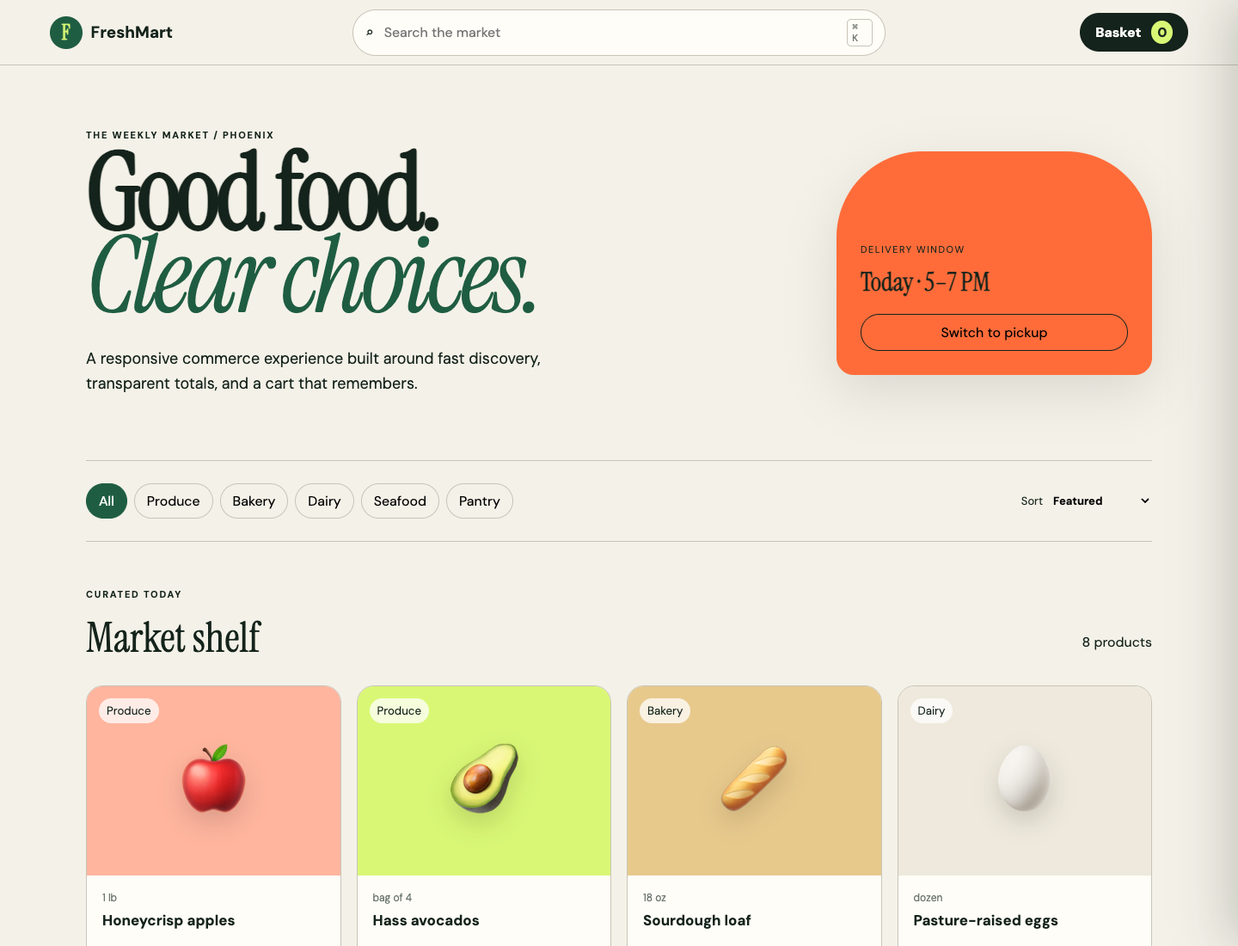
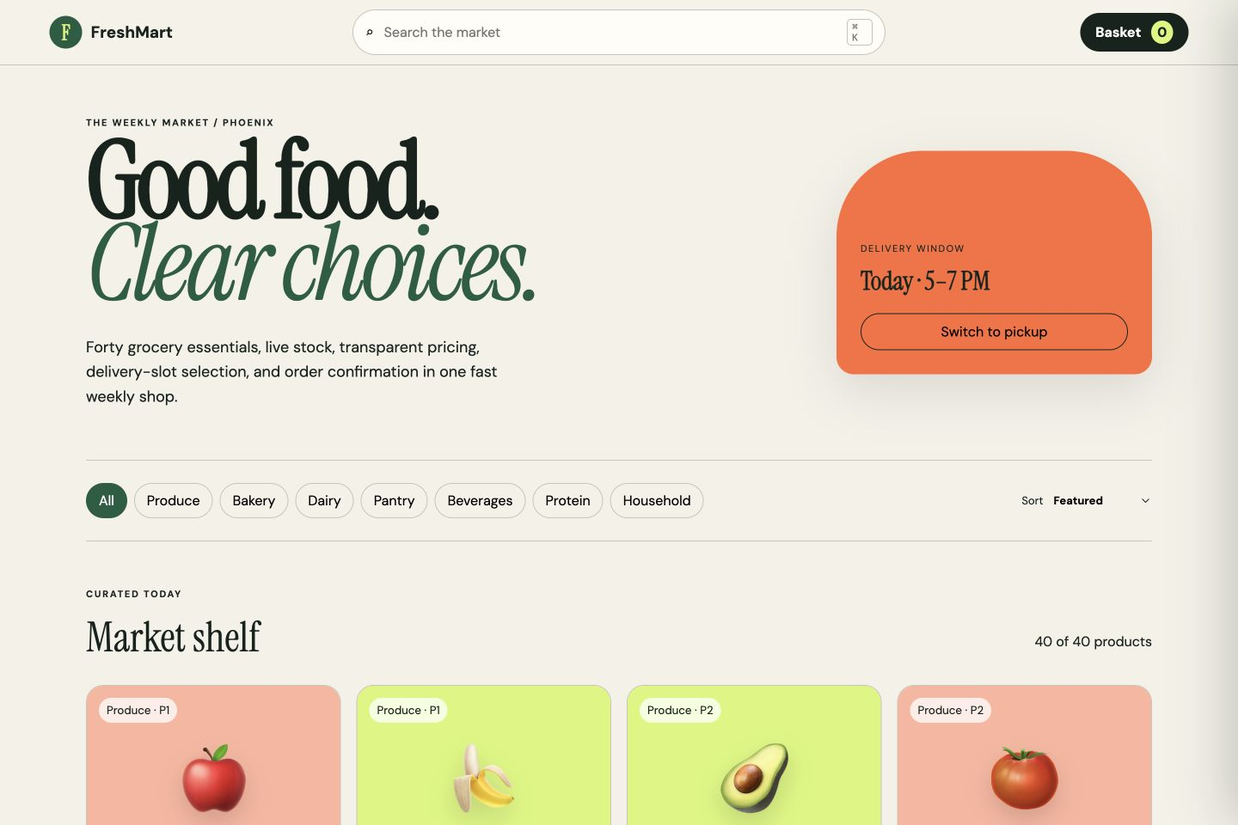
Implement full-stack grocery checkout

diff --git a/assets/app.js b/assets/app.js
@@ -1,80 +1,20 @@
-const PRODUCTS = [
-  { id: "apple", name: "Honeycrisp apples", category: "Produce", price: 2.49, unit: "1 lb", icon: "🍎", tone: "coral", rank: 1 },
-  { id: "avocado", name: "Hass avocados", category: "Produce", price: 4.29, unit: "bag of 4", icon: "🥑", tone: "lime", rank: 2 },
-  { id: "bread", name: "Sourdough loaf", category: "Bakery", price: 3.89, unit: "18 oz", icon: "🥖", tone: "sand", rank: 3 },
-  { id: "eggs", name: "Pasture-raised eggs", category: "Dairy", price: 5.79, unit: "dozen", icon: "🥚", tone: "cream", rank: 4 },
-  { id: "milk", name: "Whole milk", category: "Dairy", price: 3.69, unit: "1 gallon", icon: "🥛", tone: "sky", rank: 5 },
-  { id: "salmon", name: "Atlantic salmon", category: "Seafood", price: 8.99, unit: "1 lb", icon: "🐟", tone: "blue", rank: 6 },
-  { id: "rice", name: "Jasmine rice", category: "Pantry", price: 4.49, unit: "2 lb", icon: "🍚", tone: "cream", rank: 7 },
-  { id: "coffee", name: "Desert roast coffee", category: "Pantry", price: 12.50, unit: "12 oz", icon: "☕", tone: "coffee", rank: 8 }
-];
-const CATEGORIES = ["All", ...new Set(PRODUCTS.map(product => product.category))];
-const core = window.FreshMartCore;
-const saved = JSON.parse(localStorage.getItem("freshmart-cart") || "{}");
-const state = { query: "", category: "All", sort: "featured", cart: saved, discount: false, delivery: true };
-const $ = selector => document.querySelector(selector);
-
-function persist() { localStorage.setItem("freshmart-cart", JSON.stringify(state.cart)); }
-function notify(message) {
-  const toast = $("#toast"); toast.textContent = message; toast.classList.add("visible");
-  clearTimeout(notify.timer); notify.timer = setTimeout(() => toast.classList.remove("visible"), 1600);
-}
-function visibleProducts() {
-  return core.sortProducts(core.filterProducts(PRODUCTS, state.query, state.category), state.sort);
-}
-function renderCategories() {
-  $("#categories").innerHTML = CATEGORIES.map(category =>
-    `<button class="category ${category === state.category ? "active" : ""}" data-category="${category}">${category}</button>`
-  ).join("");
-}
-function renderProducts() {
-  const products = visibleProducts();
-  $("#resultCount").textContent = `${products.length} products`;
-  $("#catalog").innerHTML = products.length ? products.map(product => `
-    <article class="product-card">
-      <div class="product-art ${product.tone}"><span>${product.icon}</span><small>${product.category}</small></div>
-      <div class="product-info">
-        <p class="unit">${product.unit}</p><h3>${product.name}</h3>
-        <div><strong>${core.money(product.price)}</strong><button data-add="${product.id}">Add +</button></div>
-      </div>
-    </article>`).join("") : `<p class="empty-state">No market items match that search.</p>`;
-}
-function lines() {
-  return Object.entries(state.cart).map(([id, quantity]) => ({ ...PRODUCTS.find(p => p.id === id), quantity })).filter(line => line.id);
-}
-function renderCart() {
-  const items = lines();
-  $("#cartCount").textContent = items.reduce((sum, item) => sum + item.quantity, 0);
-  $("#cartItems").innerHTML = items.length ? items.map(item => `
-    <article class="cart-line"><span class="cart-icon">${item.icon}</span><div><strong>${item.name}</strong><small>${core.money(item.price)} · ${item.unit}</small></div>
-      <div class="stepper"><button aria-label="Remove one ${item.name}" data-step="-1" data-id="${item.id}">−</button><span>${item.quantity}</span><button aria-label="Add one ${item.name}" data-step="1" data-id="${item.id}">+</button></div>
-    </article>`).join("") : `<div class="empty-basket"><span>◎</span><h3>Your basket is clear</h3><p>Add something fresh from the market shelf.</p></div>`;
-  const totals = core.calculateTotals(items, state.discount);
-  $("#subtotal").textContent = core.money(totals.subtotal); $("#tax").textContent = core.money(totals.tax);
-  $("#discount").textContent = `−${core.money(totals.discount)}`; $("#total").textContent = core.money(totals.total);
-  $("#discountRow").hidden = !state.discount;
-}
-function openCart() {
-  $("#cartDrawer").classList.add("open"); $("#cartDrawer").setAttribute("aria-hidden", "false");
-  $("#openCart").setAttribute("aria-expanded", "true"); $("#scrim").hidden = false; $("#closeCart").focus();
-}
-function closeCart() {
-  $("#cartDrawer").classList.remove("open"); $("#cartDrawer").setAttribute("aria-hidden", "true");
-  $("#openCart").setAttribute("aria-expanded", "false"); $("#scrim").hidden = true; $("#openCart").focus();
-}
-document.addEventListener("click", event => {
-  const category = event.target.closest("[data-category]");
-  if (category) { state.category = category.dataset.category; renderCategories(); renderProducts(); }
-  const add = event.target.closest("[data-add]");
-  if (add) { state.cart[add.dataset.add] = (state.cart[add.dataset.add] || 0) + 1; persist(); renderCart(); notify("Added to your basket"); }
-  const step = event.target.closest("[data-step]");
-  if (step) { const next = (state.cart[step.dataset.id] || 0) + Number(step.dataset.step); if (next <= 0) delete state.cart[step.dataset.id]; else state.cart[step.dataset.id] = next; persist(); renderCart(); }
-});
-$("#search").addEventListener("input", event => { state.query = event.target.value; renderProducts(); });
-$("#sort").addEventListener("change", event => { state.sort = event.target.value; renderProducts(); });
-$("#openCart").addEventListener("click", openCart); $("#closeCart").addEventListener("click", closeCart); $("#scrim").addEventListener("click", closeCart);
-$("#toggleDelivery").addEventListener("click", event => { state.delivery = !state.delivery; event.target.previousElementSibling.textContent = state.delivery ? "Today · 5–7 PM" : "Pickup · after 4 PM"; event.target.textContent = state.delivery ? "Switch to pickup" : "Switch to delivery"; });
-$("#applyPromo").addEventListener("click", () => { const code = $("#promo").value.trim().toUpperCase(); state.discount = code === "FRESH10"; renderCart(); notify(state.discount ? "FRESH10 applied" : "Try FRESH10 for this demo"); });
-$("#checkout").addEventListener("click", () => notify(lines().length ? "Checkout is a demonstration" : "Your basket is empty"));
-window.addEventListener("keydown", event => { if (event.key === "Escape" && $("#cartDrawer").classList.contains("open")) closeCart(); if ((event.metaKey || event.ctrlKey) && event.key.toLowerCase() === "k") { event.preventDefault(); $("#search").focus(); } });
-renderCategories(); renderProducts(); renderCart();
+const core=window.FreshMartCore,$=selector=>document.querySelector(selector);let PRODUCTS=[];let slots=[];
+const saved=JSON.parse(localStorage.getItem("freshmart-cart")||"{}");const state={query:"",category:"All",sort:"featured",cart:saved,discount:false,delivery:true,api:true,slotId:"today-17"};
+const esc=value=>String(value).replace(/[&<>'"]/g,c=>({"&":"&amp;","<":"&lt;",">":"&gt;","'":"&#39;",'"':"&quot;"}[c]));
+async function api(path,options={}){const response=await fetch(path,{headers:{"Content-Type":"application/json"},...options});if(!response.ok){const payload=await response.json().catch(()=>({error:"Request failed"}));throw new Error(payload.error||"Request failed");}return response.json();}
+async function load(){try{PRODUCTS=await api("/api/products");slots=await api("/api/delivery-slots");}catch{state.api=false;PRODUCTS=await fetch("data/products.json").then(r=>r.json());slots=[{id:"today-17",label:"Today · 5–7 PM",fee:5.99,capacity:7},{id:"tomorrow-09",label:"Tomorrow · 9–11 AM",fee:0,capacity:12},{id:"pickup",label:"Pickup · ready in 90 minutes",fee:0,capacity:20}];}}
+const CATEGORIES=()=>["All",...new Set(PRODUCTS.map(product=>product.category))];function persist(){localStorage.setItem("freshmart-cart",JSON.stringify(state.cart));}
+function notify(message){const toast=$("#toast");toast.textContent=message;toast.classList.add("visible");clearTimeout(notify.timer);notify.timer=setTimeout(()=>toast.classList.remove("visible"),1800);}
+function visibleProducts(){return core.sortProducts(core.filterProducts(PRODUCTS,state.query,state.category),state.sort);}
+function renderCategories(){$("#categories").innerHTML=CATEGORIES().map(category=>`<button class="category ${category===state.category?"active":""}" data-category="${esc(category)}">${esc(category)}</button>`).join("");}
+function renderProducts(){const products=visibleProducts();$("#resultCount").textContent=`${products.length} of ${PRODUCTS.length} products`;$("#catalog").innerHTML=products.length?products.map(product=>`<article class="product-card"><div class="product-art ${esc(product.tone)}"><span>${product.icon}</span><small>${esc(product.category)} · ${esc(product.aisle)}</small></div><div class="product-info"><p class="unit">${esc(product.unit)} · ${esc(product.origin)}</p><h3>${esc(product.name)}</h3><div><strong>${core.money(product.price)}</strong><button data-add="${esc(product.id)}" ${product.stock<1?"disabled":""}>${product.stock<1?"Sold out":"Add +"}</button></div><small class="inventory">${product.stock<18?`Only ${product.stock} left`:`${product.stock} in stock`}</small></div></article>`).join(""):`<p class="empty-state">No market items match that search.</p>`;}
+function lines(){return Object.entries(state.cart).map(([id,quantity])=>({...PRODUCTS.find(p=>p.id===id),quantity})).filter(line=>line.id);}
+function renderCart(){const items=lines();$("#cartCount").textContent=items.reduce((sum,item)=>sum+item.quantity,0);$("#cartItems").innerHTML=items.length?items.map(item=>`<article class="cart-line"><span class="cart-icon">${item.icon}</span><div><strong>${esc(item.name)}</strong><small>${core.money(item.price)} · ${esc(item.unit)}</small></div><div class="stepper"><button aria-label="Remove one ${esc(item.name)}" data-step="-1" data-id="${esc(item.id)}">−</button><span>${item.quantity}</span><button aria-label="Add one ${esc(item.name)}" data-step="1" data-id="${esc(item.id)}">+</button></div></article>`).join(""):`<div class="empty-basket"><span>◎</span><h3>Your basket is clear</h3><p>Add something fresh from the market shelf.</p></div>`;const totals=core.calculateTotals(items,state.discount);$("#subtotal").textContent=core.money(totals.subtotal);$("#tax").textContent=core.money(totals.tax);$("#discount").textContent=`−${core.money(totals.discount)}`;$("#total").textContent=core.money(totals.total);$("#discountRow").hidden=!state.discount;}
+function openCart(){$("#cartDrawer").classList.add("open");$("#cartDrawer").setAttribute("aria-hidden","false");$("#openCart").setAttribute("aria-expanded","true");$("#scrim").hidden=false;$("#closeCart").focus();}function closeCart(){$("#cartDrawer").classList.remove("open");$("#cartDrawer").setAttribute("aria-hidden","true");$("#openCart").setAttribute("aria-expanded","false");$("#scrim").hidden=true;}
+function openCheckout(){if(!lines().length)return notify("Your basket is empty");closeCart();$("#slotOptions").innerHTML=slots.map((slot,index)=>`<label class="slot-option"><input type="radio" name="slotId" value="${esc(slot.id)}" ${index===0?"checked":""}><span><strong>${esc(slot.label)}</strong><small>${slot.fee?core.money(slot.fee):"Free"} · ${slot.capacity} windows remaining</small></span></label>`).join("");state.slotId=slots[0].id;renderCheckoutQuote();$("#checkoutDialog").showModal();}
+function renderCheckoutQuote(){const base=core.calculateTotals(lines(),state.discount),slot=slots.find(item=>item.id===state.slotId),delivery=slot?.fee||0,total=base.total+delivery;$("#checkoutQuote").innerHTML=`<p><span>Items and tax</span><strong>${core.money(base.total)}</strong></p><p><span>Delivery</span><strong>${delivery?core.money(delivery):"Free"}</strong></p><p><span>Order total</span><strong>${core.money(total)}</strong></p>`;}
+document.addEventListener("click",event=>{const category=event.target.closest("[data-category]");if(category){state.category=category.dataset.category;renderCategories();renderProducts();}const add=event.target.closest("[data-add]");if(add){const product=PRODUCTS.find(p=>p.id===add.dataset.add),next=(state.cart[product.id]||0)+1;if(next>product.stock)return notify(`Only ${product.stock} available`);state.cart[product.id]=next;persist();renderCart();notify(`${product.name} added`);}const step=event.target.closest("[data-step]");if(step){const product=PRODUCTS.find(p=>p.id===step.dataset.id),next=(state.cart[step.dataset.id]||0)+Number(step.dataset.step);if(next>product.stock)return notify(`Only ${product.stock} available`);if(next<=0)delete state.cart[step.dataset.id];else state.cart[step.dataset.id]=next;persist();renderCart();}});
+$("#search").addEventListener("input",event=>{state.query=event.target.value;renderProducts();});$("#sort").addEventListener("change",event=>{state.sort=event.target.value;renderProducts();});$("#openCart").addEventListener("click",openCart);$("#closeCart").addEventListener("click",closeCart);$("#scrim").addEventListener("click",closeCart);$("#toggleDelivery").addEventListener("click",event=>{state.delivery=!state.delivery;event.target.previousElementSibling.textContent=state.delivery?"Today · 5–7 PM":"Pickup · ready in 90 minutes";event.target.textContent=state.delivery?"Switch to pickup":"Switch to delivery";});$("#applyPromo").addEventListener("click",()=>{state.discount=$("#promo").value.trim().toUpperCase()==="FRESH10";renderCart();notify(state.discount?"FRESH10 applied":"Promo code not recognized");});$("#checkout").addEventListener("click",openCheckout);$("#closeCheckout").addEventListener("click",()=>$("#checkoutDialog").close());$("#continueShopping").addEventListener("click",()=>$("#confirmationDialog").close());
+$("#slotOptions").addEventListener("change",event=>{state.slotId=event.target.value;renderCheckoutQuote();});$("#checkoutForm").addEventListener("submit",async event=>{event.preventDefault();$("#checkoutError").textContent="";if(!state.api){$("#checkoutError").textContent="Run the local service to create a persisted order.";return;}try{const form=Object.fromEntries(new FormData(event.currentTarget)),order=await api("/api/orders",{method:"POST",body:JSON.stringify({lines:lines().map(item=>({productId:item.id,quantity:item.quantity})),promo:state.discount?"FRESH10":"",slotId:form.slotId,customer:{name:form.name,phone:form.phone,address:form.address}})});state.cart={};persist();renderCart();$("#checkoutDialog").close();$("#confirmationTitle").textContent=order.id;$("#confirmationCopy").textContent=`${order.status} · ${order.slot.label} · ${core.money(order.total)}`;$("#confirmationDialog").showModal();}catch(error){$("#checkoutError").textContent=error.message;}});
+window.addEventListener("keydown",event=>{if(event.key==="Escape"&&$("#cartDrawer").classList.contains("open"))closeCart();if((event.metaKey||event.ctrlKey)&&event.key.toLowerCase()==="k"){event.preventDefault();$("#search").focus();}});
+await load();renderCategories();renderProducts();renderCart();

diff --git a/server.js b/server.js
@@ -1,0 +1,8 @@
+import{createServer}from"node:http";import{readFile,writeFile,mkdir}from"node:fs/promises";import{existsSync}from"node:fs";import{join,extname,normalize,dirname}from"node:path";import{fileURLToPath}from"node:url";import{randomUUID}from"node:crypto";
+const ROOT=fileURLToPath(new URL(".",import.meta.url)),PORT=Number(process.env.PORT||4180),DATA=process.env.FRESHMART_DATA_FILE||join(ROOT,"data/runtime.json"),PRODUCTS=JSON.parse(await readFile(join(ROOT,"data/products.json"),"utf8"));
+const slots=[{id:"today-17",label:"Today · 5–7 PM",fee:5.99,capacity:7},{id:"today-19",label:"Today · 7–9 PM",fee:3.99,capacity:3},{id:"tomorrow-09",label:"Tomorrow · 9–11 AM",fee:0,capacity:12},{id:"pickup",label:"Pickup · ready in 90 minutes",fee:0,capacity:20}];
+async function state(){if(!existsSync(DATA))return{orders:[],inventory:Object.fromEntries(PRODUCTS.map(p=>[p.id,p.stock])),events:[]};return JSON.parse(await readFile(DATA,"utf8"));}async function save(value){await mkdir(dirname(DATA),{recursive:true});await writeFile(DATA,JSON.stringify(value,null,2));}
+function send(res,status,payload,type="application/json; charset=utf-8"){res.writeHead(status,{"content-type":type,"cache-control":"no-store"});res.end(type.startsWith("application/json")?JSON.stringify(payload):payload);}async function parse(req){const chunks=[];for await(const chunk of req)chunks.push(chunk);return chunks.length?JSON.parse(Buffer.concat(chunks).toString()):{};}
+function quote(lines,promo,slotId){const items=lines.map(line=>({...line,product:PRODUCTS.find(p=>p.id===line.productId)})).filter(x=>x.product&&Number.isInteger(x.quantity)&&x.quantity>0&&x.quantity<=25);const subtotal=Math.round(items.reduce((sum,x)=>sum+x.product.price*x.quantity,0)*100)/100;const discount=promo==="FRESH10"?Math.round(subtotal*.1*100)/100:0;const delivery=slots.find(slot=>slot.id===slotId)?.fee??5.99;const tax=Math.round((subtotal-discount)*.081*100)/100;return{items:items.map(({product,...line})=>({...line,name:product.name,price:product.price})),subtotal,discount,delivery,tax,total:Math.round((subtotal-discount+delivery+tax)*100)/100};}
+export async function api(req,res,url){const db=await state();if(req.method==="GET"&&url.pathname==="/api/health")return send(res,200,{status:"ok",products:PRODUCTS.length});if(req.method==="GET"&&url.pathname==="/api/products")return send(res,200,PRODUCTS.map(p=>({...p,stock:db.inventory[p.id]??p.stock})));if(req.method==="GET"&&url.pathname==="/api/delivery-slots")return send(res,200,slots);if(req.method==="POST"&&url.pathname==="/api/quote"){const p=await parse(req);return send(res,200,quote(p.lines||[],p.promo,p.slotId));}if(req.method==="POST"&&url.pathname==="/api/orders"){const p=await parse(req),calculated=quote(p.lines||[],p.promo,p.slotId);if(!p.customer?.name||!p.customer?.address||!calculated.items.length)return send(res,422,{error:"Customer, address, and cart items are required"});for(const item of calculated.items)if((db.inventory[item.productId]||0)<item.quantity)return send(res,409,{error:`Insufficient stock for ${item.name}`});calculated.items.forEach(item=>db.inventory[item.productId]-=item.quantity);const order={id:`FM-${String(Date.now()).slice(-7)}`,status:"Picking",createdAt:new Date().toISOString(),customer:p.customer,slot:slots.find(s=>s.id===p.slotId),...calculated};db.orders.unshift(order);db.events.unshift({id:randomUUID(),type:"order.created",orderId:order.id,at:order.createdAt});await save(db);return send(res,201,order);}if(req.method==="GET"&&url.pathname.startsWith("/api/orders/")){const id=url.pathname.split("/").pop(),order=db.orders.find(o=>o.id===id);return order?send(res,200,order):send(res,404,{error:"Order not found"});}return send(res,404,{error:"Route not found"});}
+const types={".html":"text/html; charset=utf-8",".css":"text/css; charset=utf-8",".js":"text/javascript; charset=utf-8",".json":"application/json; charset=utf-8"};export function app(){return createServer(async(req,res)=>{const url=new URL(req.url,"http://local");try{if(url.pathname.startsWith("/api/"))return await api(req,res,url);const clean=normalize(url.pathname==="/"?"index.html":url.pathname.slice(1));const file=join(ROOT,clean);if(!file.startsWith(ROOT))return send(res,403,{error:"Forbidden"});send(res,200,await readFile(file),types[extname(file)]||"application/octet-stream");}catch(error){send(res,500,{error:error.message});}});}if(process.argv[1]===fileURLToPath(import.meta.url))app().listen(PORT,()=>console.log(`FreshMart running at http://localhost:${PORT}`));

diff --git a/assets/styles.css b/assets/styles.css
@@ -5,3 +5,5 @@ body{overflow-x:hidden}
 @media(max-width:900px){.site-header{grid-template-columns:1fr auto}.search-shell{grid-row:2;grid-column:1/-1;margin:10px 0}.site-header{height:auto;padding-top:10px;padding-bottom:10px}.hero{grid-template-columns:1fr;padding:70px 0}.delivery-card{min-height:190px}.product-grid{grid-template-columns:repeat(2,1fr)}}
 @media(max-width:560px){main{width:min(92vw,460px)}.brand span:last-child{display:none}.hero{min-height:auto}.hero h1{font-size:66px}.hero-copy{font-size:16px}.delivery-card{border-radius:70px 70px 18px 18px}.toolbar{align-items:flex-start;flex-direction:column}.catalog-heading{padding-top:38px}.catalog-heading h2{font-size:40px}.product-grid{grid-template-columns:1fr 1fr;gap:10px}.product-art{height:145px}.product-art span{font-size:58px}.product-info{padding:13px}.product-info h3{font-size:14px;min-height:34px;margin-bottom:14px}.product-info strong{font-size:20px}.product-info button{padding:7px 9px}.drawer{width:100vw}}
 @media(prefers-reduced-motion:reduce){*,*::before,*::after{scroll-behavior:auto!important;transition-duration:.01ms!important;animation-duration:.01ms!important}}
+.inventory{display:block;margin-top:10px;color:#66716a}.checkout-dialog,.confirmation-dialog{width:min(620px,92vw);border:0;border-radius:24px;background:var(--card);padding:38px;box-shadow:var(--shadow)}dialog::backdrop{background:rgba(20,35,27,.55);backdrop-filter:blur(4px)}.checkout-dialog h2,.confirmation-dialog h2{font-family:"Instrument Serif";font-size:48px;font-weight:400;margin:0 0 24px}.close-checkout{position:absolute;right:20px;top:20px}.checkout-dialog label{display:flex;flex-direction:column;gap:7px;font-size:13px;font-weight:700;margin:14px 0}.checkout-dialog input,.checkout-dialog textarea{border:1px solid var(--line);border-radius:12px;background:white;padding:12px;color:var(--ink)}.form-grid{display:grid;grid-template-columns:1fr 1fr;gap:14px}.checkout-dialog fieldset{border:0;padding:0;margin:20px 0}.slot-option{display:flex!important;flex-direction:row!important;align-items:center;border:1px solid var(--line);border-radius:14px;padding:13px}.slot-option input{margin-right:12px}.slot-option strong,.slot-option small{display:block}.slot-option small{color:#66716a;font-weight:400}.checkout-quote{background:var(--paper);border-radius:14px;padding:14px}.checkout-quote p{display:flex;justify-content:space-between;margin:7px}.checkout-quote p:last-child{padding-top:8px;border-top:1px solid var(--line);font-size:20px}.checkout-boundary{font-size:12px;color:#66716a}.form-error{color:#a13126;min-height:18px}.confirmation-dialog{text-align:center}.confirmation-dialog .checkout{width:100%}
+@media(max-width:560px){.form-grid{grid-template-columns:1fr}.checkout-dialog,.confirmation-dialog{padding:32px 20px}.checkout-dialog h2{font-size:38px}}

diff --git a/index.html b/index.html
@@ -3,7 +3,7 @@
 <head>
   <meta charset="utf-8">
   <meta name="viewport" content="width=device-width,initial-scale=1">
-  <meta name="description" content="FreshMart Commerce - a fast, accessible grocery storefront demonstration.">
+  <meta name="description" content="FreshMart Commerce - a full-stack grocery ordering and delivery application.">
   <title>FreshMart Commerce</title>
   <link rel="stylesheet" href="assets/styles.css">
 </head>
@@ -29,7 +29,7 @@
       <div>
         <p class="eyebrow">THE WEEKLY MARKET / PHOENIX</p>
         <h1 id="heroTitle">Good food.<br><em>Clear choices.</em></h1>
-        <p class="hero-copy">A responsive commerce experience built around fast discovery, transparent totals, and a cart that remembers.</p>
+        <p class="hero-copy">Forty grocery essentials, live stock, transparent pricing, delivery-slot selection, and order confirmation in one fast weekly shop.</p>
       </div>
       <div class="delivery-card">
         <p>DELIVERY WINDOW</p>
@@ -77,9 +77,25 @@
       <button class="checkout" id="checkout">Review checkout</button>
     </div>
   </aside>
+  <dialog id="checkoutDialog" class="checkout-dialog">
+    <button id="closeCheckout" class="icon-button close-checkout" aria-label="Close checkout">×</button>
+    <p class="eyebrow">DELIVERY CHECKOUT</p><h2>Complete your order</h2>
+    <form id="checkoutForm">
+      <div class="form-grid"><label>Name<input name="name" required value="Paul Revanth"></label><label>Phone<input name="phone" required value="928-555-0143"></label></div>
+      <label>Delivery address<textarea name="address" required>1500 S Lumberjack Road, Flagstaff, AZ 86011</textarea></label>
+      <fieldset><legend>Delivery window</legend><div id="slotOptions"></div></fieldset>
+      <div class="checkout-quote" id="checkoutQuote"></div>
+      <p class="checkout-boundary">Payment is intentionally mocked. No financial information is collected or stored.</p>
+      <p class="form-error" id="checkoutError" role="alert"></p>
+      <button class="checkout" type="submit">Confirm test order</button>
+    </form>
+  </dialog>
+  <dialog id="confirmationDialog" class="confirmation-dialog">
+    <p class="eyebrow">ORDER CONFIRMED</p><h2 id="confirmationTitle"></h2><p id="confirmationCopy"></p><button class="checkout" id="continueShopping">Continue shopping</button>
+  </dialog>
   <div class="toast" id="toast" role="status" aria-live="polite"></div>
 
   <script src="assets/core.js"></script>
-  <script src="assets/app.js"></script>
+  <script type="module" src="assets/app.js"></script>
 </body>
 </html>

diff --git a/README.md b/README.md
@@ -1,6 +1,6 @@
 # FreshMart Commerce
 
-An accessible, responsive grocery storefront evolved from my original FreshMart browser prototype. The portfolio edition focuses on clean state management, testable commerce rules, keyboard support, and a fast interface with no runtime dependencies.
+An accessible full-stack grocery storefront evolved from my original FreshMart browser prototype, with a 40-item catalog, inventory-aware checkout, delivery-slot validation, persisted test orders, and a responsive shopping experience.
 
 **[Open the live demo](https://paulrevanthpersonal-lab.github.io/freshmart-commerce/)**
 
@@ -8,7 +8,7 @@ An accessible, responsive grocery storefront evolved from my original FreshMart 
 
 ## 1. Product overview
 
-FreshMart lets shoppers search and filter a curated catalog, choose fulfillment mode, manage persistent cart quantities, apply a demonstration promotion, and review transparent totals.
+FreshMart lets shoppers search and filter 40 grocery and household products, choose fulfillment mode and delivery time, manage cart quantities, apply a reviewer promotion, and place a server-validated test order.
 
 ## 2. Original-work lineage
 
@@ -23,20 +23,21 @@ The visual system uses an editorial market aesthetic rather than a generic dashb
 - Search, category filters, and four sort modes
 - Persistent cart with quantity controls
 - Delivery/pickup state and transparent tax calculation
-- Demonstration `FRESH10` promotion
+- Server-owned inventory, delivery slots, order totals, and order status
+- Reviewer promotion `FRESH10` and explicit non-payment checkout
 - Keyboard shortcut, Escape handling, focus return, and live announcements
 
 ## 5. Architecture
 
-Pure catalog and pricing rules live in `assets/core.js`; browser behavior lives in `assets/app.js`. See [architecture notes](docs/ARCHITECTURE.md).
+Pure pricing rules live in `assets/core.js`, browser behavior lives in `assets/app.js`, and `server.js` owns inventory, quotes, checkout, order persistence, and static delivery. See [architecture notes](docs/ARCHITECTURE.md) and the [API contract](docs/API.md).
 
 ## 6. Technology
 
-Semantic HTML, modern CSS, vanilla JavaScript, localStorage, Node's built-in test runner, Chrome headless screenshots, and GitHub Actions.
+Semantic HTML, modern CSS, vanilla JavaScript, Node.js HTTP APIs, JSON persistence, localStorage fallback, Node's built-in test runner, browser screenshots, and GitHub Actions.
 
 ## 7. Performance approach
 
-The project has no application dependencies or framework runtime. Motion is limited to compositor-friendly transform/opacity changes. Actual frame rate depends on the browser and device; the UI does not claim a universal 120 FPS guarantee.
+The project has no third-party runtime dependencies. Motion is limited to compositor-friendly transform/opacity changes and product rendering is incremental. Actual frame rate depends on the browser and device; the UI does not claim a universal 120 FPS guarantee.
 
 ## 8. Accessibility
 
@@ -45,17 +46,20 @@ Keyboard behavior, semantic structure, live status messages, reduced motion, and
 ## 9. Quick start
 
 ```bash
-python3 -m http.server 4173
-# open http://localhost:4173
+npm start
+# open http://localhost:4180
 ```
+
+The GitHub Pages build remains usable as a read-only storefront with local cart state. Run the Node service for validated checkout and persisted orders.
 
 ## 10. Testing
 
 ```bash
-node --test tests/*.test.cjs
+npm run check
+npm test
 ```
 
-Tests cover search/category filtering, stable sorting, and discount-before-tax totals.
+Unit tests cover the 40-record catalog, search/category filtering, stable sorting, promotions, and totals. The integration test starts the service, creates an order, and retrieves its status.
 
 ## 11. Automated screenshots
 
@@ -69,19 +73,21 @@ Desktop and mobile captures are written to `docs/screenshots/`.
 
 ```text
 assets/        styles, UI controller, testable rules
+data/          40-product catalog and delivery slots
 docs/          architecture, accessibility, interview notes, screenshots
 scripts/       repeatable visual capture
-tests/         Node unit tests
+tests/         unit and API integration tests
 index.html     accessible application shell
+server.js      catalog, quote, checkout, order, and static-file service
 ```
 
 ## 13. Data and privacy
 
-Cart state stays in the browser. There are no trackers, accounts, payment calls, or remote product APIs.
+The browser keeps cart state locally. The local service writes test orders and inventory changes to an ignored runtime file. There are no trackers, payment calls, or third-party product APIs.
 
 ## 14. Security boundary
 
-This is a frontend demonstration. Production totals, promotions, prices, inventory, and payments must be verified by a trusted server.
+The included server revalidates product IDs, stock, fulfillment selection, promotions, and totals. It never collects payment details. A production release would add authenticated customers, a transactional database, idempotency keys, rate limiting, payment-provider tokenization, and operational monitoring.
 
 ## 15. Browser support
 
@@ -93,10 +99,10 @@ The [interview guide](docs/INTERVIEW_GUIDE.md) explains architectural decisions,
 
 ## 17. Roadmap
 
-- API-backed inventory and cart validation
-- Product detail routes and optimistic updates
+- Authenticated accounts and order history
+- PostgreSQL transactions and idempotent checkout
 - Automated accessibility and browser tests
-- Authenticated saved lists and order history
+- Payment-provider sandbox integration
 
 ## 18. License
 

diff --git a/docs/INTERVIEW_GUIDE.md b/docs/INTERVIEW_GUIDE.md
@@ -2,15 +2,15 @@
 
 ## One-minute explanation
 
-FreshMart is an accessible grocery storefront I evolved from an earlier single-file prototype. The portfolio edition separates testable pricing logic from UI state, adds responsive product discovery, persisted cart quantities, delivery mode, promo handling, keyboard behavior, and a distinct editorial visual system.
+FreshMart is the full-stack evolution of my earlier single-file grocery prototype. It separates pricing rules from UI state, serves 40 product records, validates stock and delivery slots on the server, persists test orders, and keeps the shopping flow accessible on desktop and mobile.
 
 ## Decisions I can explain
 
 - Core pricing and filtering rules have no DOM dependency, so Node can test them quickly.
-- The cart persists locally to demonstrate resilient client state without pretending a payment backend exists.
+- The cart persists locally, while checkout is revalidated by the service so browser values are never trusted.
 - CSS animations use transform and opacity and respect reduced-motion preferences.
-- Checkout is clearly labeled as a demonstration rather than simulating a real transaction.
+- Checkout creates a real local order record but deliberately never collects payment details.
 
 ## Next production steps
 
-An actual commerce release needs authenticated accounts, inventory and pricing APIs, server-side cart validation, a payment provider, analytics consent, image optimization, error monitoring, and end-to-end checkout tests.
+An actual commerce release needs authenticated accounts, a transactional database, inventory reservations, payment-provider tokenization, consented analytics, image optimization, rate limiting, error monitoring, and end-to-end checkout tests.

diff --git a/docs/ARCHITECTURE.md b/docs/ARCHITECTURE.md
@@ -1,11 +1,13 @@
 # Architecture
 
-FreshMart is a dependency-free browser application. `core.js` contains deterministic catalog and pricing rules, while `app.js` owns DOM rendering, browser events, accessibility state, and local persistence. This boundary keeps business rules testable without a browser.
+FreshMart is a dependency-free full-stack application. `core.js` contains deterministic catalog and pricing rules, `app.js` owns browser rendering and accessibility state, and `server.js` owns trusted inventory, delivery slots, quotes, checkout, order lookup, and static-file delivery.
 
 ```text
-catalog data -> pure filter/sort/pricing rules -> view renderer
-                                               -> localStorage cart
-                                               -> accessible drawer state
+Browser UI -> REST service -> source catalog
+     |             |       -> ignored runtime orders/inventory
+     +-> local cart fallback
 ```
 
-The static architecture is deliberate: reviewers can run the complete product from any simple web server, and the same interface can later consume inventory and checkout APIs.
+The browser can load `data/products.json` when hosted statically, which makes the GitHub Pages review build useful. Checkout is enabled only when the local API is reachable. The service validates every product, quantity, delivery slot, promotion, and total before writing an order.
+
+The JSON runtime store keeps the project easy to inspect and reset. A production service would use database transactions, idempotency, authenticated ownership, inventory reservations, and payment-provider tokens.

diff --git a/docs/API.md b/docs/API.md
@@ -1,0 +1,14 @@
+# API contract
+
+## Catalog and fulfillment
+
+- `GET /api/products` returns the 40-product inventory and accepts search, category, and sort queries.
+- `GET /api/delivery-slots` returns valid delivery and pickup windows.
+- `POST /api/quote` validates product IDs, quantities, inventory, fulfillment, promotion, tax, and total without writing an order.
+
+## Orders
+
+- `POST /api/orders` repeats quote validation, creates a test order, decrements runtime inventory, and returns a confirmation number.
+- `GET /api/orders/:id` returns the stored order status for a valid confirmation number.
+
+Runtime state is written to `data/runtime.json`, which is intentionally ignored by Git. The service does not accept card or bank information.
